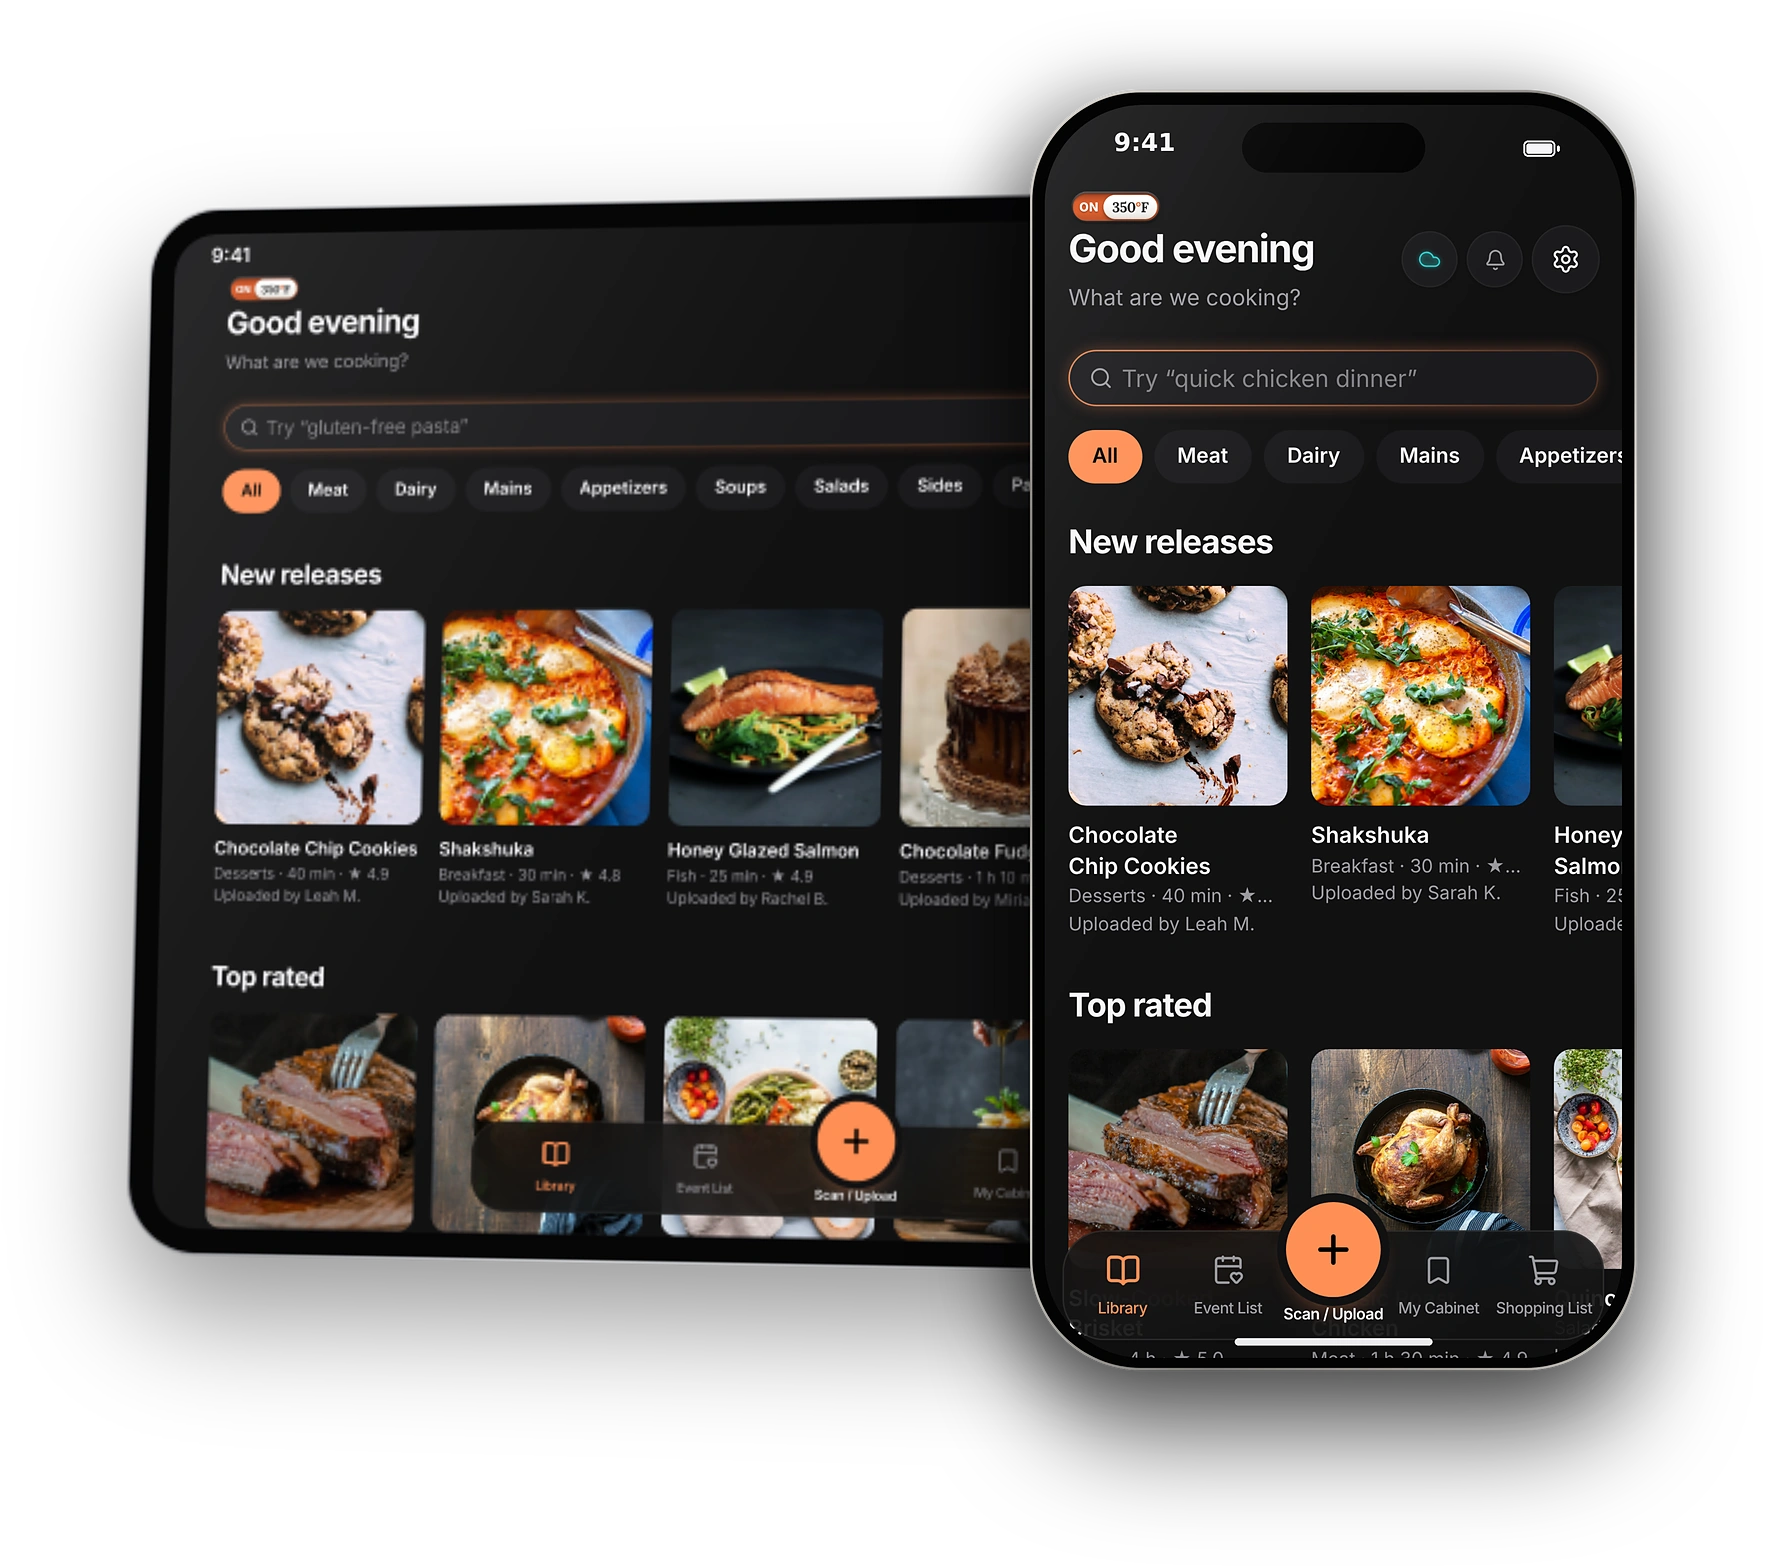
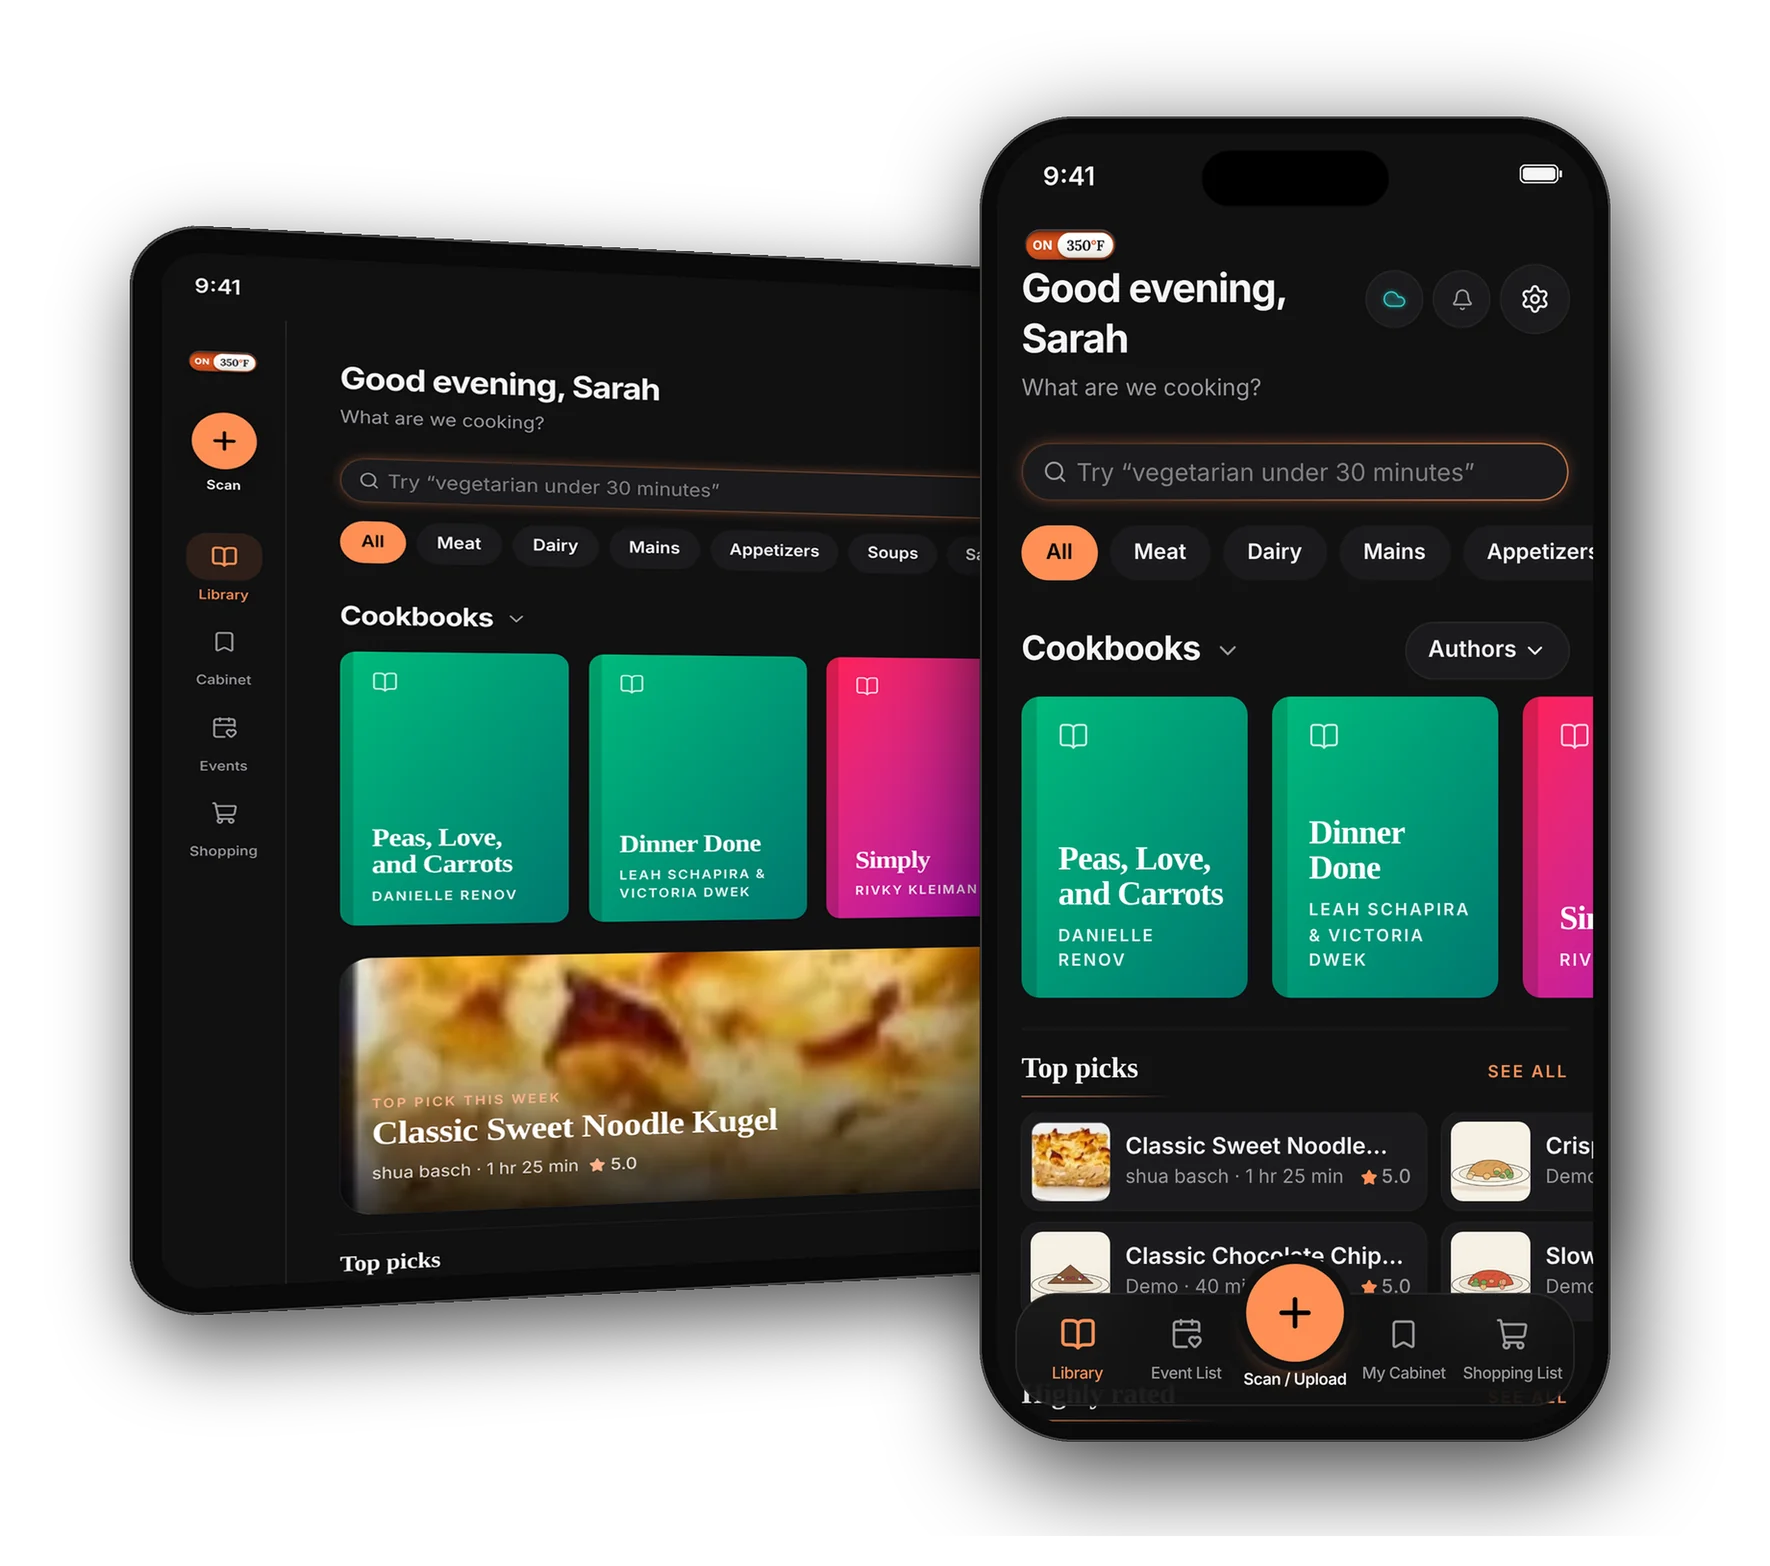
on350.com and emails: new phone and tablet picture of the current app; Shabbos wording
Claude-Session: https://claude.ai/code/session_01ADXpCTEnMXBBp4mHBc7Y2V

diff --git a/on350-landing/site/index.html b/on350-landing/site/index.html
@@ -74,7 +74,7 @@
     <div class="hero-phone">
       <picture class="devices">
         <source type="image/webp" srcset="/img/app-devices-1180.webp 1180w, /img/app-devices-1770.webp 1770w, /img/app-devices-2360.webp 2360w" sizes="(max-width: 900px) min(560px, calc(100vw - 48px)), 590px">
-        <img src="/img/app-devices.png" alt="On350 on a phone and an iPad: shelves of new, top-rated and main-course recipes, with the bottom bar for the library, events, scanning, the cabinet and the shopping list" width="1770" height="1566" fetchpriority="high">
+        <img src="/img/app-devices.png" alt="On350 on a phone and an iPad: the library with cookbooks, this week’s top pick and the Top picks playlist" width="1770" height="1566" fetchpriority="high">
       </picture>
     </div>
   </section>
@@ -125,7 +125,7 @@
       <article class="card">
         <svg viewBox="0 0 24 24" aria-hidden="true"><rect x="3" y="4" width="18" height="17" rx="2"/><path d="M16 2v4M8 2v4M3 10h18"/></svg>
         <h3>Plan events</h3>
-        <p>Build a menu for Shabbat, a holiday or a party, then shop for all of it at once.</p>
+        <p>Build a menu for Shabbos, a holiday or a party, then shop for all of it at once.</p>
       </article>
       <article class="card">
         <svg viewBox="0 0 24 24" aria-hidden="true"><path d="M12 3v12M7 10l5 5 5-5M5 21h14"/></svg>
